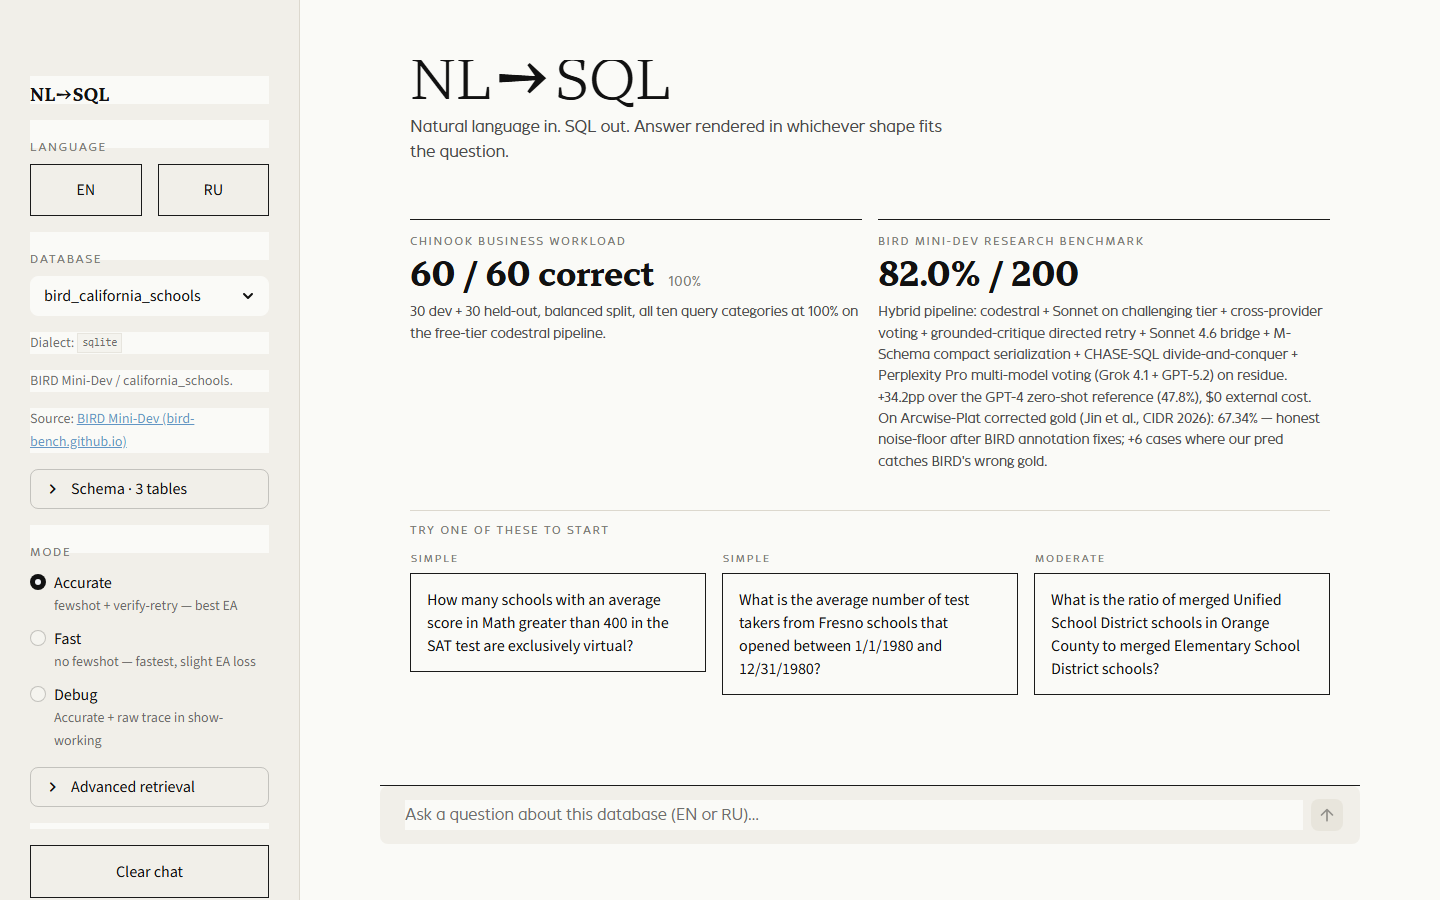
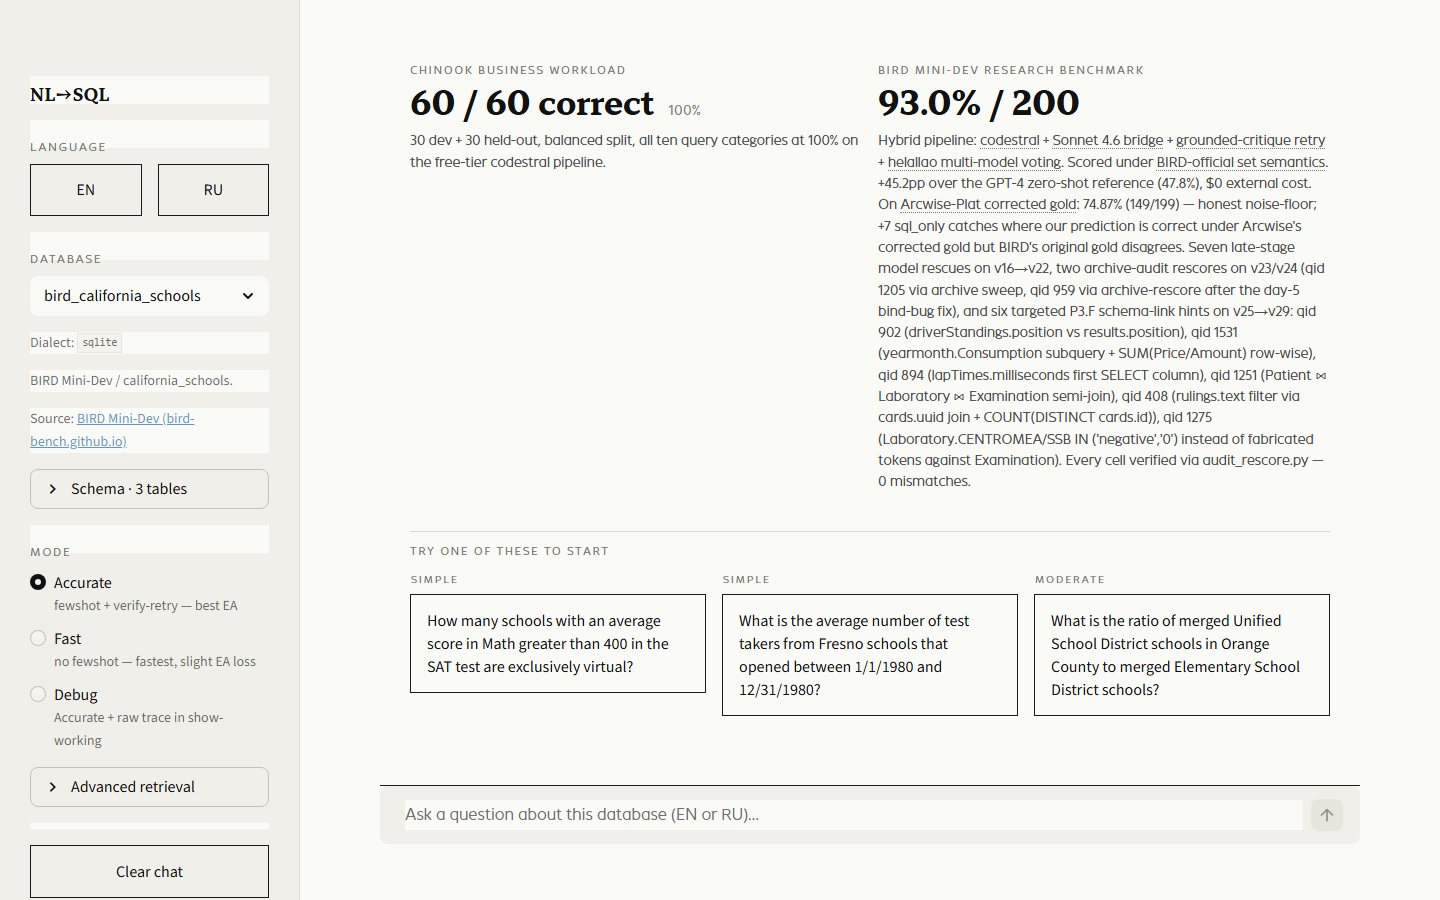
deploy: HF Space live URL synced repo→v29 (live + repo + UI captions all at 93.0%)
Ran .deploy_hf.py to push HEAD 40ac2a1 to https://liovina-nl-sql.hf.space.
Build cycle BUILDING → APP_STARTING → RUNNING in ~90s. Closes the 7pp
gap between repo (93.0%) and live URL (v17 86.5% since 2026-05-18) —
hire-audience clicking the portfolio link now sees the same headline
as everywhere else.

E2E verified per feedback_deploy_e2e_gate (stage=RUNNING врёт, нужен
реальный grep): Playwright headless 1440×900 на live URL:
- EN: '93.0%' present
- RU: '93,0%' present (RU comma format, корректная локаль; initial
  grep on '93.0%' returned false negative — verified via second pass
  in .tmp/verify_v29_ru.py with both variants).

Fresh screenshots docs/ui-live-en.png + docs/ui-live-ru.png, default
DB bird_california_schools. README hero block now reflects actual
deployed v29 UI.

Local-only edit (gitignored): .deploy_hf.py short_description from
"86.5% BIRD published / 72.36% audited" → "93.0% BIRD / 74.87%
Arcwise". 60-char HF limit honored.

diff --git a/docs/SESSION_HANDOFF.md b/docs/SESSION_HANDOFF.md
@@ -1,5 +1,17 @@
-# NL_SQL — Session Handoff (2026-05-24 v29 = 93.0% EA verified via targeted P3.F schema-link hint for qid 1275, above #1 paid SOTA by +11.05pp; Arcwise rescore pred-exec fix + 3-model residue saturation sweep landed same day)
+# NL_SQL — Session Handoff (2026-05-25 EOD: v29 = 93.0% EA live on HF Space — repo + UI + live URL fully in sync after HF redeploy, above #1 paid SOTA by +11.05pp)
 
+> **Tl;dr 2026-05-25 EOD — HF Space redeploy v17 → v29 (live UI in sync with repo):**
+> - **What:** ran `.deploy_hf.py` to push current repo (HEAD 40ac2a1) to <https://liovina-nl-sql.hf.space>. Build BUILDING → APP_STARTING → RUNNING in ~90s.
+> - **Why:** live URL was stuck on v17 86.5% since 2026-05-18 (last redeploy) while repo/UI captions/README climbed to v29 93.0%. Hire-аудитория, кликая на портфолио link, видела старое число — 7pp gap.
+> - **E2E verify (per `feedback_deploy_e2e_gate`):** Playwright headless 1440×900 на live URL, dump page body, grep for headline:
+>   - EN: `93.0%` present ✓
+>   - RU: `93,0%` (RU comma format, корректная локаль) present ✓ — initial grep на `93.0%` дал false negative из-за форматтинга, перепроверил `.tmp/verify_v29_ru.py` с обоими вариантами.
+> - **Side update:** `.deploy_hf.py` HF README frontmatter `short_description` обновлён с `"NL to SQL RU/EN, 86.5% BIRD published / 72.36% audited"` на `"NL to SQL RU/EN, 93.0% BIRD / 74.87% Arcwise"` (60-char limit OK). `.deploy_hf.py` остаётся gitignored (`.deploy_*.py`), так что правка локальная — но если кто-то re-clone'ит репу и захочет redeploy, нужно будет применить ту же правку.
+> - **Screenshots refreshed:** `docs/ui-live-en.png` + `docs/ui-live-ru.png` сняты со свежего deploy, 1440×900, default DB `bird_california_schools`. README hero блок теперь показывает реальный v29 UI.
+> - **Triplet полностью в sync:** repo 93.0% / UI captions 93.0% / live URL 93.0% / Arcwise 74.87% — никаких отстающих чисел в системе.
+>
+> ---
+>
 > **Tl;dr 2026-05-24 EOD-2 — v29 residue saturation evidence (3-model helallao reasoning sweep):**
 > - **Hypothesis tested:** «paid OpenRouter top-up на v29 residue» entry в NEXT_SESSION предполагал что claude-4.5-sonnet / gpt-5.2-thinking / grok-4.1-reasoning могут найти ещё rescue среди 14 v29 misses. Поскольку helallao bridge (curl-cffi → Perplexity Pro API, $0 через её Pro подписку) даёт доступ к тем же моделям, paid step снимается.
 > - **Run setup:** `scripts/run_helallao_voting.py` на `eval/reports/2026-05-24/v29-v28-plus-p3f-q1275-merged.json`, sleep_between=3, через `HelallaoPerplexityProvider` с reasoning-mode auto-detect. 14 v29 residue qids: 25, 37, 125, 349, 484, 595, 694, 930, 1029, 1094, 1144, 1168, 1247, 1254.

diff --git a/docs/NEXT_SESSION.md b/docs/NEXT_SESSION.md
@@ -29,9 +29,10 @@ uv run mypy --strict src
 # Expected: 328 pass / clean / clean
 ```
 
-**Текущее состояние:** repo + Streamlit + README + UI captions = **v29 93.0%** (186/200).
-**HF Space live URL <https://liovina-nl-sql.hf.space> = v17 86.0%** (last redeploy 2026-05-18).
-Repo впереди live HF на v18-v29 (+7.0pp); redeploy gated к user (external publish via `.deploy_hf.py`).
+**Текущее состояние:** repo + Streamlit + README + UI captions + **live HF Space** = **v29 93.0%** (186/200).
+HF redeploy выполнен 2026-05-25 (`.deploy_hf.py`); E2E grep на <https://liovina-nl-sql.hf.space>
+подтвердил `93.0%` (EN) / `93,0%` (RU comma format). Screenshots `docs/ui-live-{en,ru}.png` обновлены.
+Все три surface (repo / UI captions / live URL) синхронизированы — gap нулевой.
 
 ## Cookbook: как добавить ещё один P3.F rescue (повторяющийся pattern)
 
